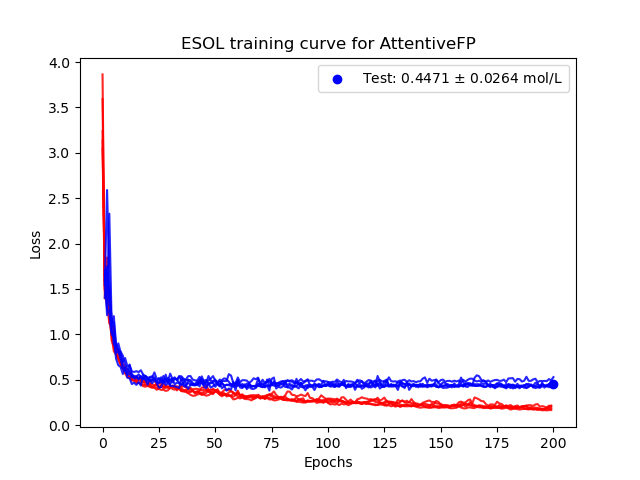
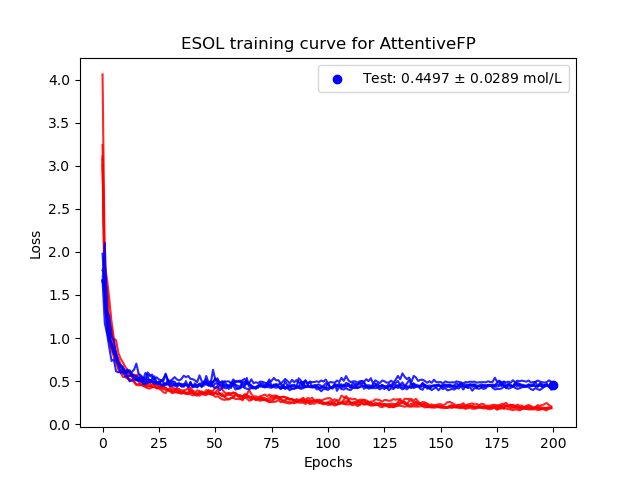
Simplify training scripts

diff --git a/training/train_esol.py b/training/train_esol.py
@@ -14,25 +14,27 @@ from sklearn.model_selection import KFold
 from kgcnn.data.datasets.ESOL import ESOLDataset
 from kgcnn.io.loader import NumpyTensorList
 from kgcnn.utils.models import ModelSelection
-from kgcnn.hyper.selection import HyperSelectionTraining
+from kgcnn.hyper.selection import HyperSelection
 from kgcnn.utils.data import save_json_file
+from kgcnn.utils.plots import plot_train_test_loss, plot_predict_true
 
 # Input arguments from command line.
 # A hyper-parameter file can be specified to be loaded containing a python dict for hyper.
 parser = argparse.ArgumentParser(description='Train a graph network on ESOL dataset.')
 parser.add_argument("--model", required=False, help="Graph model to train.", default="AttentiveFP")  # AttentiveFP
-parser.add_argument("--hyper", required=False, help="Filepath to hyper-parameter config.", default="hyper/hyper_esol.py")
+parser.add_argument("--hyper", required=False, help="Filepath to hyper-parameter config.",
+                    default="hyper/hyper_esol.py")
 args = vars(parser.parse_args())
 print("Input of argparse:", args)
 
 # Model identification
 model_name = args["model"]
-ms = ModelSelection()
-make_model = ms.make_model(model_name)
+model_selection = ModelSelection()
+make_model = model_selection.make_model(model_name)
 
 # Hyper-parameter.
-hyper_selection = HyperSelectionTraining(args["hyper"], model_name=model_name)
-hyper = hyper_selection.get_hyper()
+hyper_selection = HyperSelection(args["hyper"], model_name=model_name)
+hyper = hyper_selection.hyper()
 
 # Loading ESOL Dataset
 hyper_data = hyper['data']
@@ -44,27 +46,20 @@ if "set_edge_indices_reverse" in hyper_data:
 data_name = dataset.dataset_name
 data_unit = "mol/L"
 data_length = dataset.length
-k_fold_info = hyper["training"]["KFold"]
 
 # Using NumpyTensorList() to make tf.Tensor objects from a list of arrays.
-dataloader = NumpyTensorList(*[getattr(dataset, x['name']) for x in hyper['model']['inputs']])
+data_loader = NumpyTensorList(*[getattr(dataset, x['name']) for x in hyper['model']['inputs']])
 labels = np.array(dataset.graph_labels)
 
-# Data-set split
-kf = KFold(**k_fold_info)
+# Test Split
+kf = KFold(**hyper_selection.k_fold())
 split_indices = kf.split(X=np.arange(data_length-1)[:, None])
 
-# hyper_fit and epochs
-hyper_fit = hyper_selection.fit()
-epo = hyper_fit['epochs']
-epostep = hyper_fit['validation_freq']
-batch_size = hyper_fit['batch_size']
+# Variables
+history_list, test_indices_list = [], []
+model, scaler, xtest, ytest = None, None, None, None
 
-train_loss = []
-test_loss = []
-mae_5fold = []
-all_test_index = []
-model, scaler, xtest, ytest, mae_valid = None, None, None, None, None
+# Training on splits
 for train_index, test_index in split_indices:
 
     # Make model.
@@ -72,8 +67,8 @@ for train_index, test_index in split_indices:
 
     # Select train and test data.
     is_ragged = [x['ragged'] for x in hyper['model']['inputs']]
-    xtrain, ytrain = dataloader[train_index].tensor(ragged=is_ragged), labels[train_index]
-    xtest, ytest = dataloader[test_index].tensor(ragged=is_ragged), labels[test_index]
+    xtrain, ytrain = data_loader[train_index].tensor(ragged=is_ragged), labels[train_index]
+    xtest, ytest = data_loader[test_index].tensor(ragged=is_ragged), labels[test_index]
 
     # Normalize training and test targets.
     scaler = StandardScaler(with_std=True, with_mean=True, copy=True)
@@ -81,33 +76,26 @@ for train_index, test_index in split_indices:
     ytest = scaler.transform(ytest)
 
     # Get optimizer from serialized hyper-parameter.
-    mae_metric = ScaledMeanAbsoluteError((1, 1))
+    mae_metric = ScaledMeanAbsoluteError((1, 1), name="mean_absolute_error")
     rms_metric = ScaledRootMeanSquaredError((1, 1))
     if scaler.scale_ is not None:
         mae_metric.set_scale(np.expand_dims(scaler.scale_, axis=0))
         rms_metric.set_scale(np.expand_dims(scaler.scale_, axis=0))
-    hyper_compile = hyper_selection.compile(loss='mean_squared_error', metrics=[mae_metric, rms_metric])
-    model.compile(**hyper_compile)
+    model.compile(**hyper_selection.compile(loss='mean_squared_error', metrics=[mae_metric, rms_metric]))
     print(model.summary())
 
     # Start and time training
-    hyper_fit = hyper_selection.fit()
     start = time.process_time()
     hist = model.fit(xtrain, ytrain,
                      validation_data=(xtest, ytest),
-                     **hyper_fit
+                     **hyper_selection.fit()
                      )
     stop = time.process_time()
     print("Print Time for taining: ", stop - start)
 
     # Get loss from history
-    train_mae = np.array(hist.history['mean_absolute_error'])
-    train_loss.append(train_mae)
-    val_mae = np.array(hist.history['val_mean_absolute_error'])
-    test_loss.append(val_mae)
-    mae_valid = np.mean(val_mae[-5:])
-    mae_5fold.append(mae_valid)
-    all_test_index.append([train_index, test_index])
+    history_list.append(hist)
+    test_indices_list.append([train_index, test_index])
 
 # Make output directory
 hyper_info = deepcopy(hyper["info"])
@@ -119,39 +107,18 @@ filepath = os.path.join("results", data_name, hyper['model']['name'] + post_fix)
 os.makedirs(filepath, exist_ok=True)
 
 # Plot training- and test-loss vs epochs for all splits.
-plt.figure()
-for x in train_loss:
-    plt.plot(np.arange(x.shape[0]), x, c='red', alpha=0.85)
-for y in test_loss:
-    plt.plot((np.arange(len(y)) + 1) * epostep, y, c='blue', alpha=0.85)
-plt.scatter([train_loss[-1].shape[0]], [np.mean(mae_5fold)],
-            label=r"Test: {0:0.4f} $\pm$ {1:0.4f} ".format(np.mean(mae_5fold), np.std(mae_5fold)) + data_unit, c='blue')
-plt.xlabel('Epochs')
-plt.ylabel('Loss')
-plt.title('ESOL training curve for ' + model_name)
-plt.legend(loc='upper right', fontsize='medium')
-plt.savefig(os.path.join(filepath, model_name + "_mae_esol" + post_fix_file + ".png"))
-plt.show()
-
-# Plot predicted targets vs actual targets for last split.
-true_test = scaler.inverse_transform(ytest)
-pred_test = scaler.inverse_transform(model.predict(xtest))
-plt.figure()
-plt.scatter(pred_test, true_test, alpha=0.3, label="MAE: {0:0.4f} ".format(mae_valid) + "[" + data_unit + "]")
-plt.plot(np.arange(np.amin(true_test), np.amax(true_test), 0.05),
-         np.arange(np.amin(true_test), np.amax(true_test), 0.05), color='red')
-plt.xlabel('Predicted')
-plt.ylabel('Actual')
-plt.title("Prediction of " + model_name)
-plt.legend(loc='upper left', fontsize='x-large')
-plt.savefig(os.path.join(filepath, model_name + "_predict_esol" + post_fix_file + ".png"))
-plt.show()
+plot_train_test_loss(history_list, loss_name="mean_absolute_error", val_loss_name="val_mean_absolute_error",
+                     model_name=model_name, data_unit=data_unit, dataset_name=data_name, filepath=filepath,
+                     file_name="mae_esol" + post_fix_file + ".png")
+# Plot prediction
+plot_predict_true(scaler.inverse_transform(model.predict(xtest)), scaler.inverse_transform(ytest), filepath=filepath,
+                  model_name=model_name, dataset_name=data_name, file_name="predict_esol" + post_fix_file + ".png")
 
 # Save keras-model to output-folder.
 model.save(os.path.join(filepath, "model"))
 
 # Save original data indices of the splits.
-np.savez(os.path.join(filepath, model_name + "_kfold_splits" + post_fix_file + ".npz"), all_test_index)
+np.savez(os.path.join(filepath, model_name + "_kfold_splits" + post_fix_file + ".npz"), test_indices_list)
 
 # Save hyper-parameter again, which were used for this fit.
 save_json_file(hyper, os.path.join(filepath, model_name + "_hyper" + post_fix_file + ".json"))

diff --git a/kgcnn/hyper/selection.py b/kgcnn/hyper/selection.py
@@ -1,18 +1,39 @@
 import tensorflow as tf
 
 from copy import deepcopy
-from kgcnn.utils.data import load_json_file, load_hyper_file
+from kgcnn.utils.data import load_hyper_file
 
 
-class HyperSelectionTraining:
-    r"""A class to choose a hyper-parameters for a specific dataset and model. And also to serialize hyper info,
-    if possible. Will be added soon.
+class HyperSelection:
+    r"""A class to store hyper-parameters for a specific dataset and model, exposing them for model training scripts.
+    This includes training parameters and a set of general information like a path for output of the training stats
+    or the expected version of `kgcnn`. The class methods will extract and possibly serialize or deserialized the
+    necessary kwargs from the hyper-parameter dictionary with additional default values. Also changes in the
+    hyper-parameter definition can be made without affecting training scripts and made compatible with previous
+    versions.
+
 
     """
 
-    def __init__(self, path: str, model_name: str = None, dataset_name: str = None):
+    def __init__(self, hyper_info: str, model_name: str = None, dataset_name: str = None):
+        """Make a hyper-parameter class instance.
+
+        Args:
+            hyper_info (str, dict): Hyper-parameters dictionary or path to file.
+            model_name (str): Name of the model.
+            dataset_name (str): Name of the dataset.
+        """
+
         self.dataset_name = dataset_name
-        self._hyper_all = load_hyper_file(path)
+        self.model_name = model_name
+
+        if isinstance(hyper_info, str):
+            self._hyper_all = load_hyper_file(hyper_info)
+        elif isinstance(hyper_info, dict):
+            self._hyper_all = hyper_info
+        else:
+            raise ValueError("ERROR:kgcnn: `HyperSelection` requires valid hyper dictionary or path to file.")
+
         self._hyper = None
         if "model" in self._hyper_all and "training" in self._hyper_all:
             self._hyper = self._hyper_all
@@ -21,8 +42,8 @@ class HyperSelectionTraining:
         else:
             raise ValueError("ERROR:kgcnn: Not a valid hyper dictionary. Please provide model_name.")
 
-    def get_hyper(self, section=None):
-        """Get copy of hyper-dictionary.
+    def hyper(self, section=None):
+        """Get copy of the hyper-parameter dictionary stored by this class.
 
         Args:
             section (str): If specified, return copy of hyper[selection].
@@ -34,6 +55,10 @@ class HyperSelectionTraining:
             return deepcopy(self._hyper)
         else:
             return deepcopy(self._hyper[section])
+
+    def get_hyper(self, section=None):
+        # Only for backward compatibility.
+        return self.hyper(section)
 
     def compile(self, loss=None, optimizer='rmsprop', metrics=None, weighted_metrics=None):
         """Select compile hyper-parameter.
@@ -107,4 +132,22 @@ class HyperSelectionTraining:
         out.update(hyper_fit_additional)
         return out
 
+    def k_fold(self, n_splits: int = 5, shuffle: bool = None, random_state: int = None):
+        """Select k-fold hyper-parameter.
 
+        Args:
+            n_splits (int): Number of splits
+            shuffle (bool): Shuffle data.
+            random_state (int): Random state for shuffle.
+
+        Returns:
+            dict: Dictionary of kwargs for sklearn KFold() class.
+        """
+        k_fold_info = {"n_splits": n_splits, "shuffle": shuffle, "random_state": random_state}
+        if "KFold" in self._hyper["training"]:
+            k_fold_info.update(self._hyper["training"]["KFold"])
+        return k_fold_info
+
+
+# Only for backward compatibility.
+HyperSelectionTraining = HyperSelection

diff --git a/kgcnn/utils/plots.py b/kgcnn/utils/plots.py
@@ -1,0 +1,57 @@
+import matplotlib.pyplot as plt
+import numpy as np
+import os
+
+
+# Plot training- and test-loss vs epochs for all splits.
+def plot_train_test_loss(histories: list, loss_name: str = "loss",
+                         val_loss_name: str = "val_loss", data_unit: str = "", model_name: str = "",
+                         filepath: str = None, file_name: str = "", dataset_name: str = ""
+                         ):
+    # We assume multiple fits as in KFold.
+    train_loss = []
+    for hist in histories:
+        train_mae = np.array(hist.history[loss_name])
+        train_loss.append(train_mae)
+    val_loss = []
+    for hist in histories:
+        val_mae = np.array(hist.history[val_loss_name])
+        val_loss.append(val_mae)
+
+    # Determine a mea
+    mean_valid = [np.mean(x[-1:]) for x in val_loss]
+
+    # val_step
+    val_step = len(train_loss[0]) / len(val_loss[0])
+
+    plt.figure()
+    for x in train_loss:
+        plt.plot(np.arange(x.shape[0]), x, c='red', alpha=0.85)
+    for y in val_loss:
+        plt.plot(np.arange(y.shape[0]) * val_step, y, c='blue', alpha=0.85)
+    plt.scatter([train_loss[-1].shape[0]], [np.mean(mean_valid)],
+                label=r"Test: {0:0.4f} $\pm$ {1:0.4f} ".format(np.mean(mean_valid), np.std(mean_valid)) + data_unit,
+                c='blue')
+    plt.xlabel('Epochs')
+    plt.ylabel('Loss')
+    plt.title(dataset_name + " training curve for " + model_name)
+    plt.legend(loc='upper right', fontsize='medium')
+    if filepath is not None:
+        plt.savefig(os.path.join(filepath, model_name + "_" + file_name))
+    plt.show()
+
+
+def plot_predict_true(y_predict, y_true, data_unit: str = "", model_name: str = "",
+                      filepath: str = None, file_name: str = "", dataset_name: str = ""):
+    mae_valid = np.mean(np.abs(y_true - y_predict))
+    plt.figure()
+    plt.scatter(y_predict, y_true, alpha=0.3, label="MAE: {0:0.4f} ".format(mae_valid) + "[" + data_unit + "]")
+    plt.plot(np.arange(np.amin(y_true), np.amax(y_true), 0.05),
+             np.arange(np.amin(y_true), np.amax(y_true), 0.05), color='red')
+    plt.xlabel('Predicted')
+    plt.ylabel('Actual')
+    plt.title("Prediction of " + model_name + " for " + dataset_name)
+    plt.legend(loc='upper left', fontsize='x-large')
+    if filepath is not None:
+        plt.savefig(os.path.join(filepath, model_name + "_" + file_name))
+    plt.show()

diff --git a/kgcnn/data/base.py b/kgcnn/data/base.py
@@ -7,27 +7,43 @@ from kgcnn.utils.adj import get_angle_indices, coordinates_to_distancematrix, in
 
 
 class MemoryGraphList:
-    def __init__(self):
-        self.length = None
-        self._graph_list = {}
+    r"""Class to store a list of graphs properties in memory.
+    The graph properties are defined by tensor-like (numpy) arrays for indices, attributes, labels, symbol etc. .
+    They are added in form of a list or array as class attributes to the instance of this class.
+    Graph related properties must have a special prefix to be noted as graph property attribute.
+    Prefix are `node_`, `edge_` and `graph_` for their node, edge and graph properties, respectively.
 
-    def _set_graph_property(self, prop_name, value: list):
-        pass
 
-    def _get_graph_property(self, prop_name):
-        pass
+    .. code-block:: python
+        data = MemoryGraphList()
+        data.edge_indices = [np.array([[0, 1], [1, 0]])]
+        data.node_labels = [np.array([[0], [1]])]
+        print(data.edge_indices, data.node_labels)
 
-    @property
-    def node_attributes(self):
-        return self._get_graph_property("node_attributes")
+    """
+    def __init__(self, length: int = None):
+        r"""Initialize an empty :obj:`MemoryGraphList` instance.
 
-    @node_attributes.setter
-    def node_attributes(self, value: list):
-        self._set_graph_property("node_attributes", value)
+        Args:
+            length (int): Length of the graph list.
+        """
+        self._length = length
+        self._prefix_graph_prop = ["node_", "edge_", "graph_"]
+
+    def __setattr__(self, key, value):
+        if hasattr(self, "_prefix_graph_prop"):
+            if any([x in key for x in self._prefix_graph_prop]) and value is not None:
+                if self._length is None:
+                    self._length = len(value)
+                else:
+                    if self._length != len(value):
+                        raise ValueError("ERROR:kgcnn: len() of %s does not match len() of graph list." % key)
+
+        super(MemoryGraphList, self).__setattr__(key, value)
 
 
 class MemoryGraphDataset:
-    """Dataset class for storing lists of graph tensor properties that can be cast into the tf.RaggedTensor class.
+    """Dataset class for lists of graph tensor properties that can be cast into the tf.RaggedTensor class.
 
     """
 
